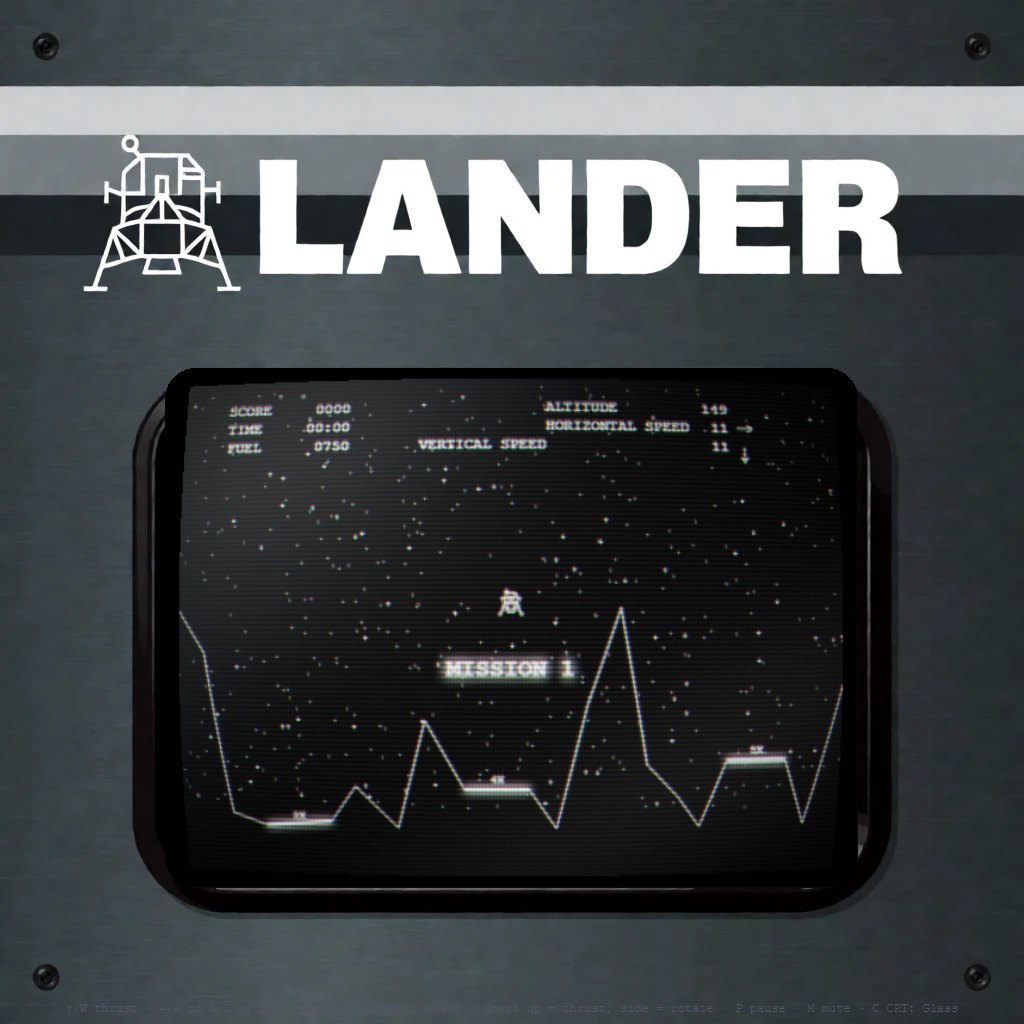
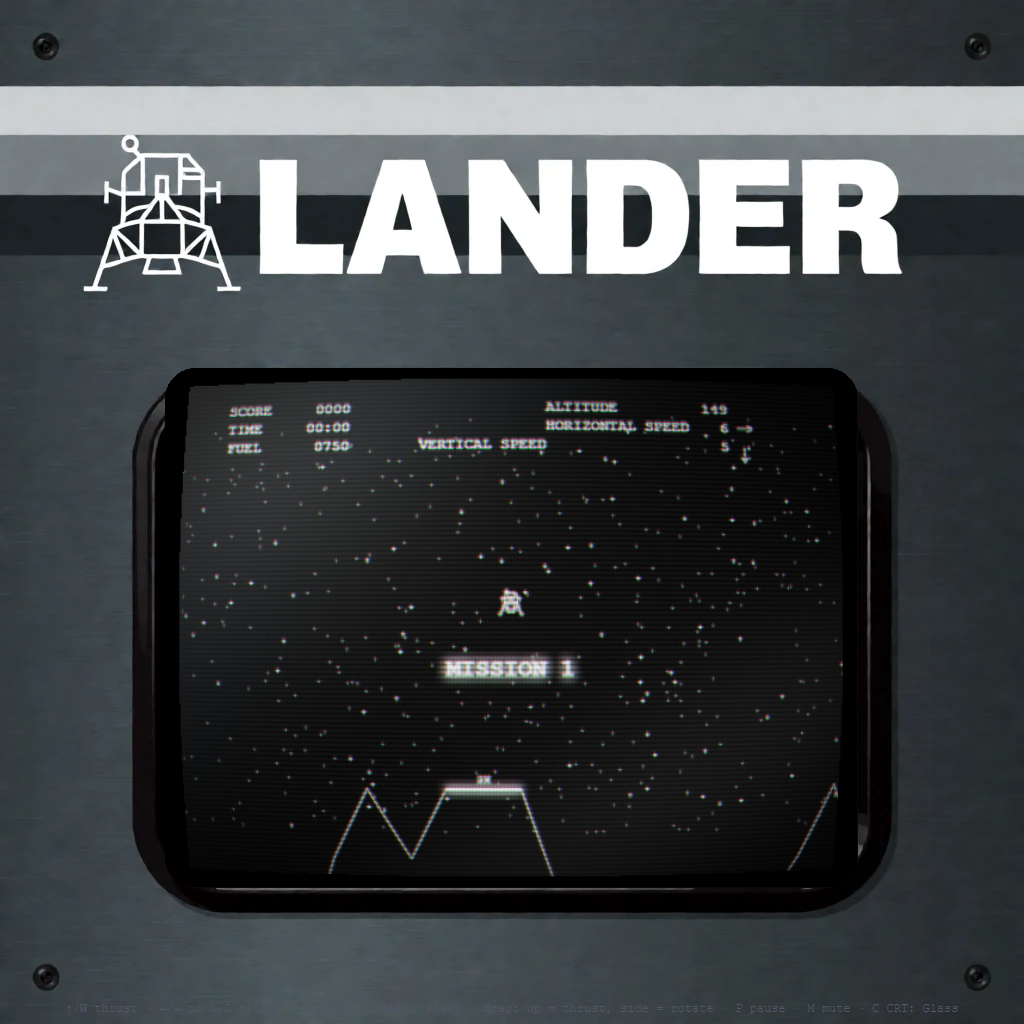
Fix slanted pads: pad is a flat notch in the slope flow
The pad segment carried the pad flag, but the shelf clamp (170..375)
could change y inside that segment, drawing a slanted glowing 'pad'
while the actually-flat segment after it was unflagged (crash on the
shelf, good-landing on the slope). Pads now keep the incoming y at
both ends: always level, flagged segment == flat shelf. Verified flat
across 120 generated worlds (2644 pads, 0 slanted).

diff --git a/index.html b/index.html
@@ -187,9 +187,9 @@ function genTerrain(m) {
     if (slot && !slot.used) {
       slot.used = true;
       si++;
-      y = clamp(y, 170, 375); // pads live on reachable shelves
       const x0 = x;
       x = Math.min(WORLD_W, x0 + slot.w);
+      // Pad = flat notch in the slope flow: same y at both ends, always level
       pts.push({ x, y, pad: slot.mult });
     } else {
       const dx = rand(18, 40);
